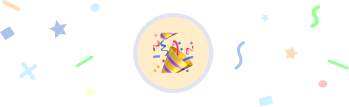
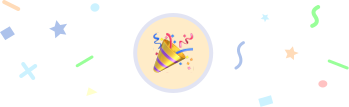
s

Changed region(s): [[0.4298, 0.2804, 0.5731, 0.7009]]

diff --git a/src/index.css b/src/index.css
@@ -28,7 +28,7 @@ body {
 }
 #ima{
   background-image: url(../public/Images/congrats.png);
-  background-size: 400px; 
+  background-size: 350px; 
   background-position: center; 
   width: 100%; 
   height: 150px;
@@ -38,7 +38,6 @@ body {
   background-color: linear-gradient(#E65895, #BC6BE8);
   width: 100px;
   height: 70px;
-  position: absolute;
   text-align: center;
   justify-content: center;
   line-height: 200px; 

diff --git a/src/Congra.jsx b/src/Congra.jsx
@@ -29,7 +29,8 @@ export default function Congra() {
       <h3 className="text-white text-xl text-center">
         You answer {score}/10 correctly.
       </h3>
-      <button id="play" onClick={play}>Play again</button>
+         <button id="play" onClick={play}>Play again</button>
+     
     </div>
   );
 }
